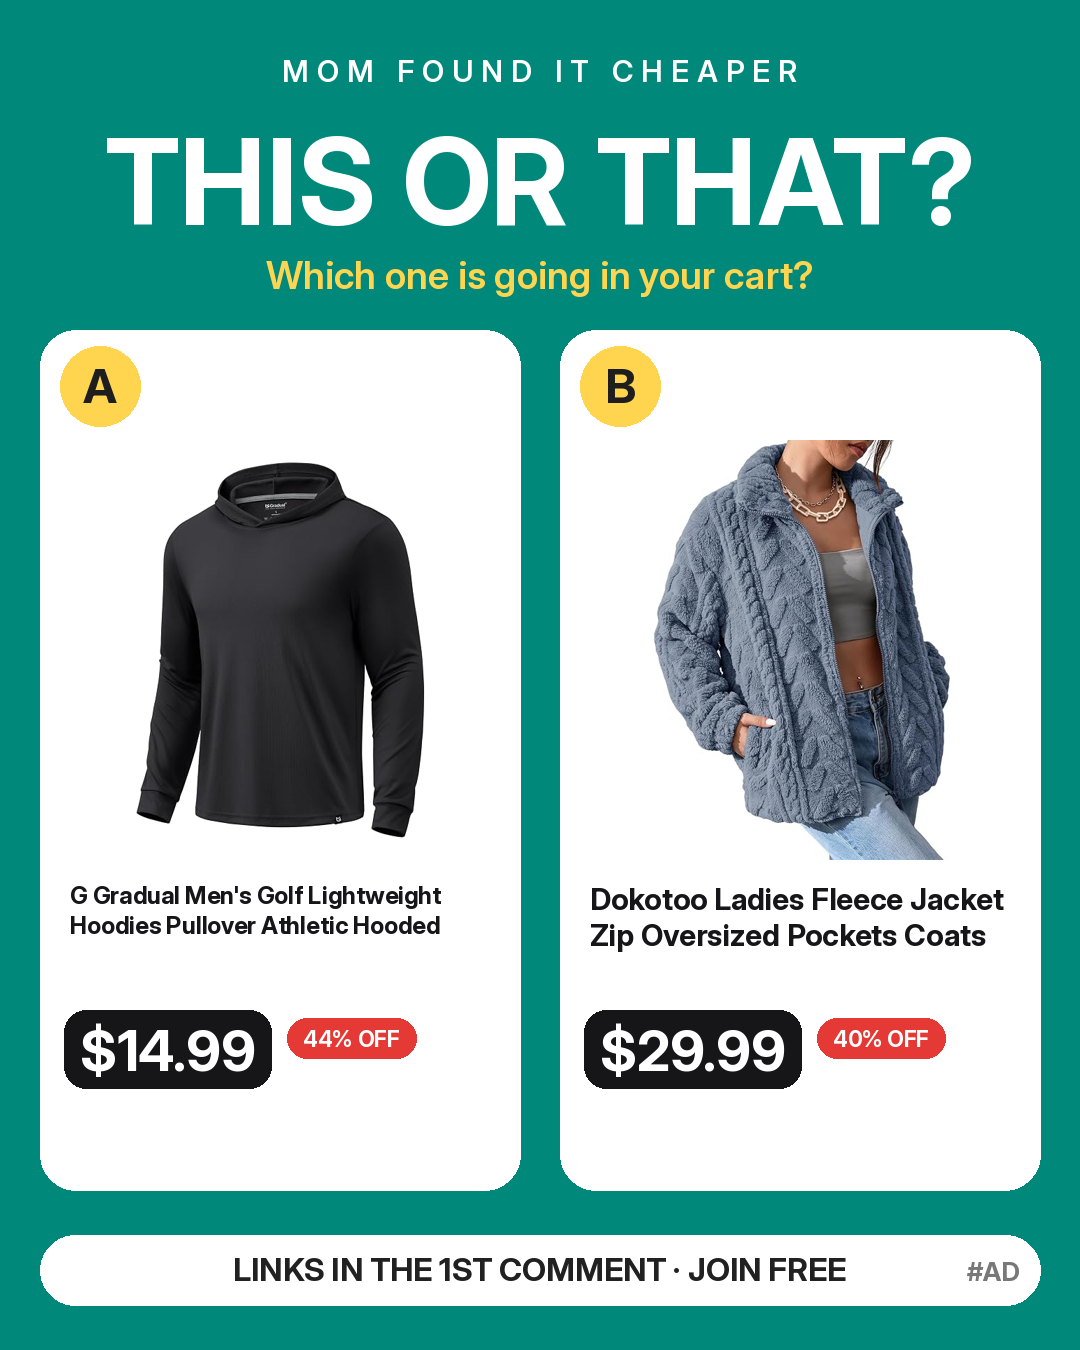
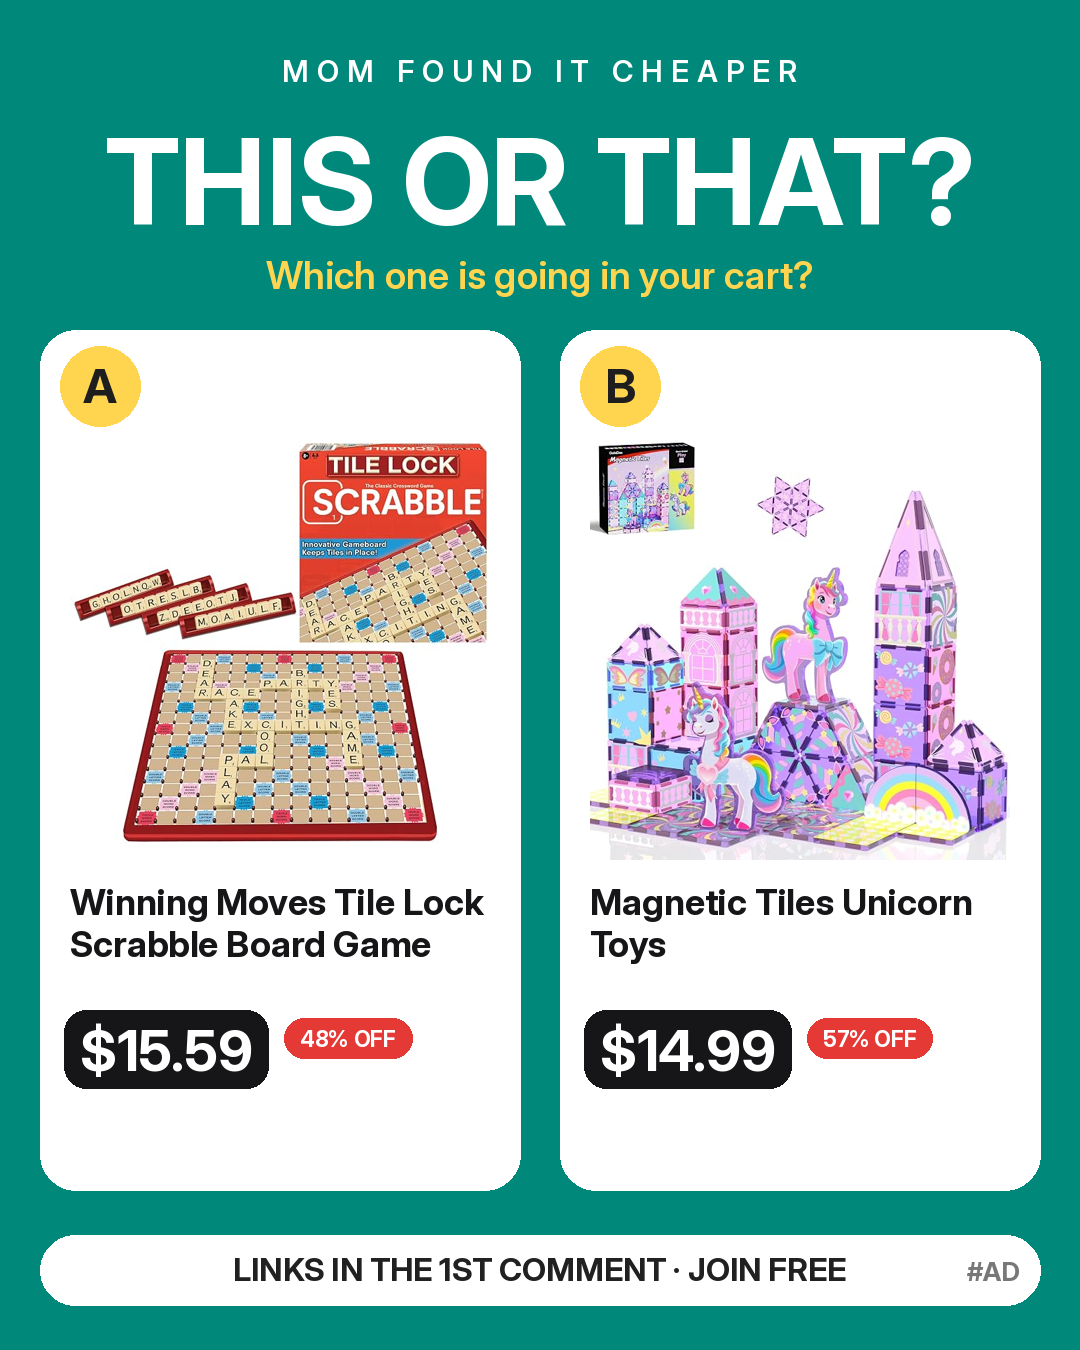
This-or-that: same audience and product type only
Claude-Session: https://claude.ai/code/session_013VSLL9D9UfzTwCfefZ99QJ

diff --git a/make_posts.py b/make_posts.py
@@ -621,6 +621,27 @@ def make_image_trio(path, theme, items, cat="Everything else"):
     img.save(path)
 
 
+_KSTOP = set("with pack piece pieces set for the and men mens women womens ladies kids boys girls large small black white blue pink gray grey inch pcs count".split())
+
+
+def _who(deal):
+    """Audience (men / women / kids / any): never compare a men's shirt with a women's one."""
+    t = " " + deal["title"].lower().replace("'", "").replace("\u2019", "") + " "
+    if re.search(r"\b(women|womens|woman|ladies|lady|girls?|her)\b", t):
+        return "w"
+    if re.search(r"\b(men|mens|man|boys?|him)\b", t):
+        return "m"
+    if re.search(r"\b(kids?|toddlers?|baby|infant)\b", t):
+        return "k"
+    return "any"
+
+
+def _kind(deal):
+    """Product-type words, so 'THIS or THAT' compares like with like (hoodie vs jacket, not hoodie vs vacuum)."""
+    ws = re.findall(r"[a-z]{4,}", no_price_title(deal["title"]).lower())
+    return {w.rstrip("s") for w in ws[:12] if w not in _KSTOP}
+
+
 def make_image_thisorthat(path, a, b, palette):
     """Comment-bait: two products side by side, 'THIS or THAT?'. Engagement posts get ~40x the comments of plain deal posts."""
     bg, accent = palette
@@ -778,7 +799,8 @@ def main():
     pair = None
     for i, x in enumerate(cands[:30]):
         for y in cands[i + 1:30]:
-            if x.get("category") == y.get("category") and product_key(x) != product_key(y) and abs(price_value(x["price"]) - price_value(y["price"])) <= 15:
+            if (x.get("category") == y.get("category") and product_key(x) != product_key(y) and abs(price_value(x["price"]) - price_value(y["price"])) <= 15
+                    and _kind(x) & _kind(y) and _who(x) == _who(y)):
                 pair = (x, y)
                 break
         if pair:
